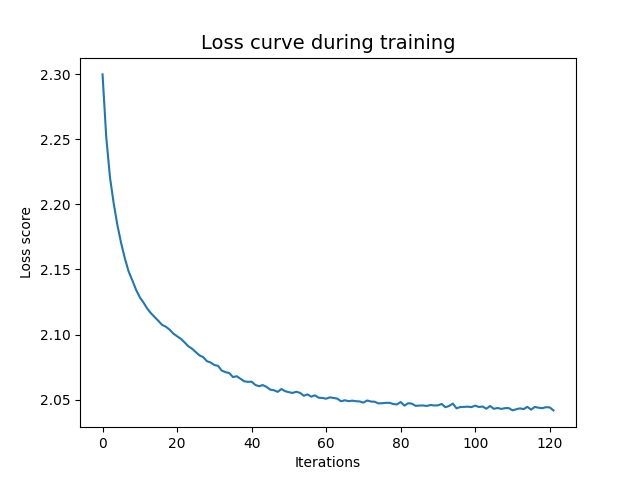
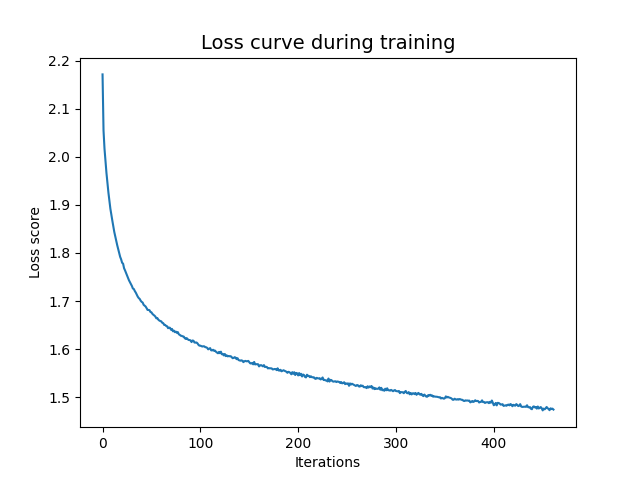
updating assignments

diff --git a/assignments/assignment 2/src/neural_network.py b/assignments/assignment 2/src/neural_network.py
@@ -49,9 +49,9 @@ def neuralnetwork():
 
     # making a neural network classifier
     classifier = MLPClassifier(activation = "logistic",
-                            hidden_layer_sizes = (20,), # 20 neurons in our hidden layer
+                            hidden_layer_sizes = (25,), # 25 neurons in our hidden layer
                             max_iter=1000, # 1000 epochs
-                            random_state = 42) # random state for reproducibility
+                            random_state = 9) # random state for reproducibility
 
     # fit the classifier to the data
     classifier.fit(X_preprocess_train, y_train)
